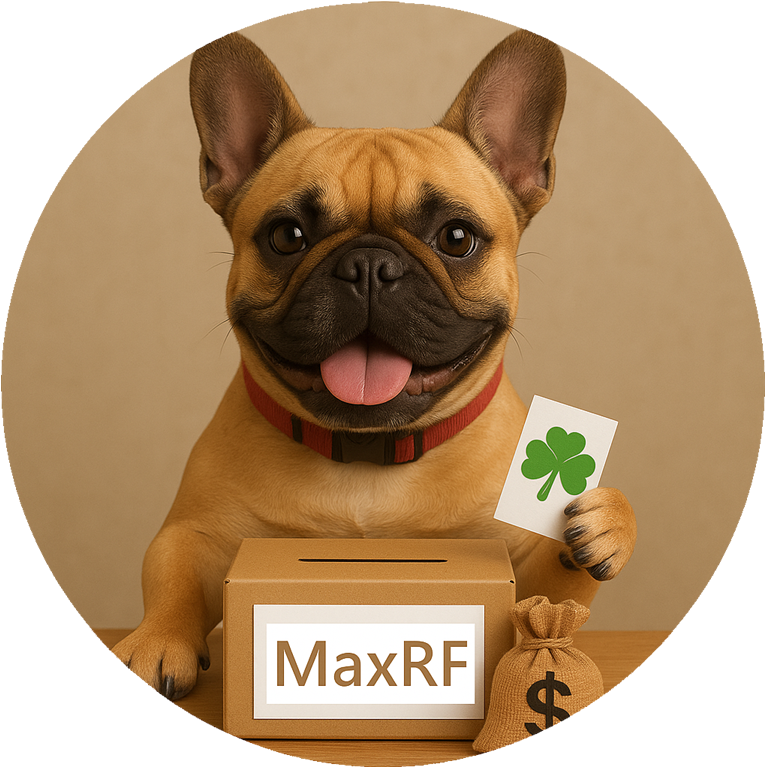
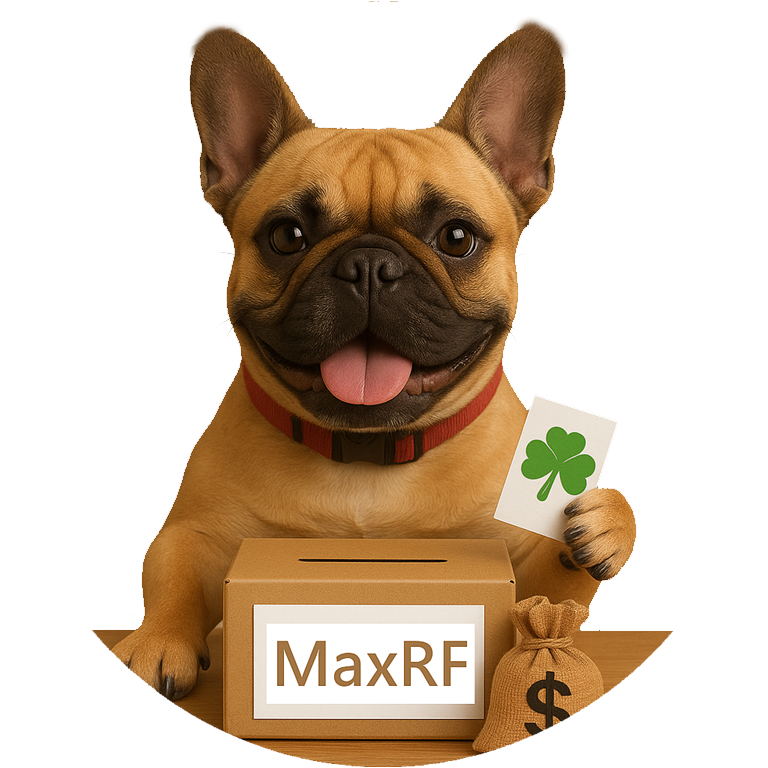
Add files via upload

diff --git a/index.html b/index.html
@@ -47,7 +47,7 @@
   <!-- MARCA DE AGUA DE FONDO (Foto Web0 al 8% de opacidad)        -->
   <!-- ============================================================ -->
   <div class="bg-watermark-fixed" aria-hidden="true">
-    <img src="./img/Foto Web0.png" alt="Mascota MaxRF Marca de Agua" class="bg-watermark-img">
+    <img src="./img/Foto Web1.png" alt="Mascota MaxRF Marca de Agua" class="bg-watermark-img">
   </div>
 
   <!-- ============================================================ -->

diff --git a/css/styles.css b/css/styles.css
@@ -498,7 +498,7 @@ html.dark .ticket-num.vendido {
   }
 }
 
-/* Marca de Agua de Fondo (Foto Web0 superpuesta al 10% de opacidad) */
+/* Marca de Agua de Fondo (Foto Web1 superpuesta al 8% de opacidad) */
 .bg-watermark-fixed {
   position: fixed;
   inset: 0;
@@ -514,7 +514,7 @@ html.dark .ticket-num.vendido {
   width: 650px;
   max-width: 90vw;
   height: auto;
-  opacity: 0.10;
+  opacity: 0.08;
   object-fit: contain;
   user-select: none;
   pointer-events: none;
